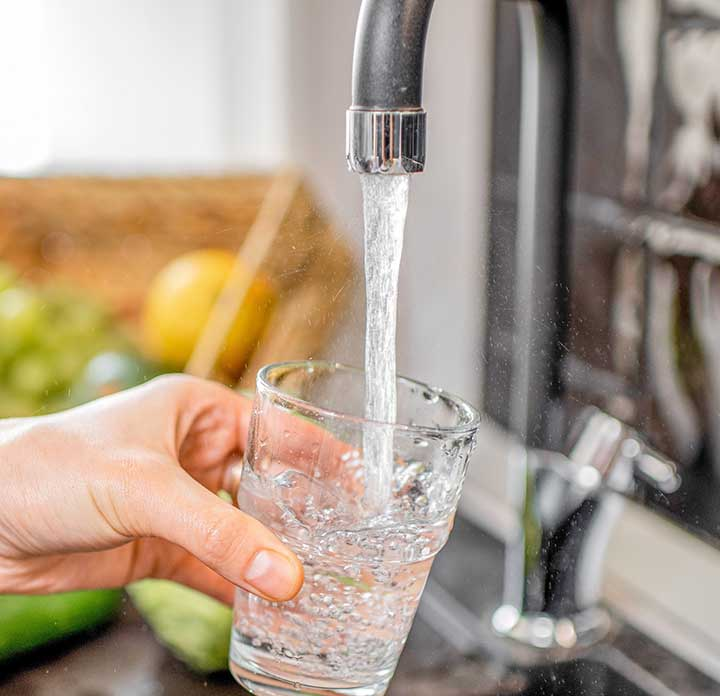
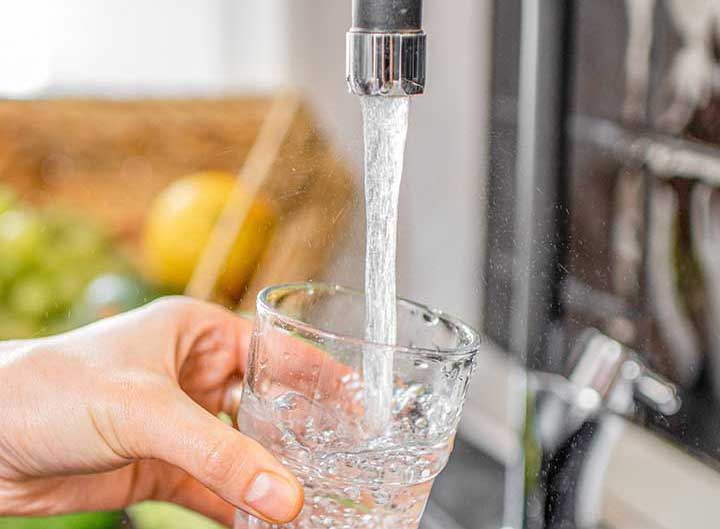
no margin on card top row

diff --git a/themes/beautifulhugo/layouts/_default/blog.html b/themes/beautifulhugo/layouts/_default/blog.html
@@ -27,11 +27,11 @@
 
           {{ if $.Scratch.Get "has_related" }}
                   <h4 class="see-also">{{ i18n "seeAlso" }}</h4>
-                  <div class="container-fluid seeAlsoContainer">
-                  <div class="row">
+                  <div class="container seeAlsoContainer">
+                  <div class="row m-0" style="display: fixed">
                 {{ $num_to_show := .Site.Params.related_content_limit | default 3 }}
                 {{ range first $num_to_show (where (where .Site.Pages ".Params.tags" "intersect" .Params.tags) "Permalink" "!=" .Permalink) }}
-                    <div class="col col-sm-12 col-md-4 col-lg-4 col-xl-4 mb-3">
+                    <div class="col col-sm-12 col-md-4 col-lg-4 col-xl-4 mb-3 ">
                       <div class="card">
                         <img src="{{ .Params.image }}" class="card-img-top" alt="seeAlsoCard">
                         <div class="card-body">

diff --git a/content/post/How-to-Make-Kitchen-Warmer.md b/content/post/How-to-Make-Kitchen-Warmer.md
@@ -2,7 +2,7 @@
 title: How to Make Your Kitchen Warmer
 date: 2023-10-16
 author: Kitchen Remodel Ideas
-image: /img/warmerKitchen/underfloor-heating.webp
+image: /img/warmerKitchen/strategic-lighting.webp
 tags:
   - Flooring
   - Cabinets